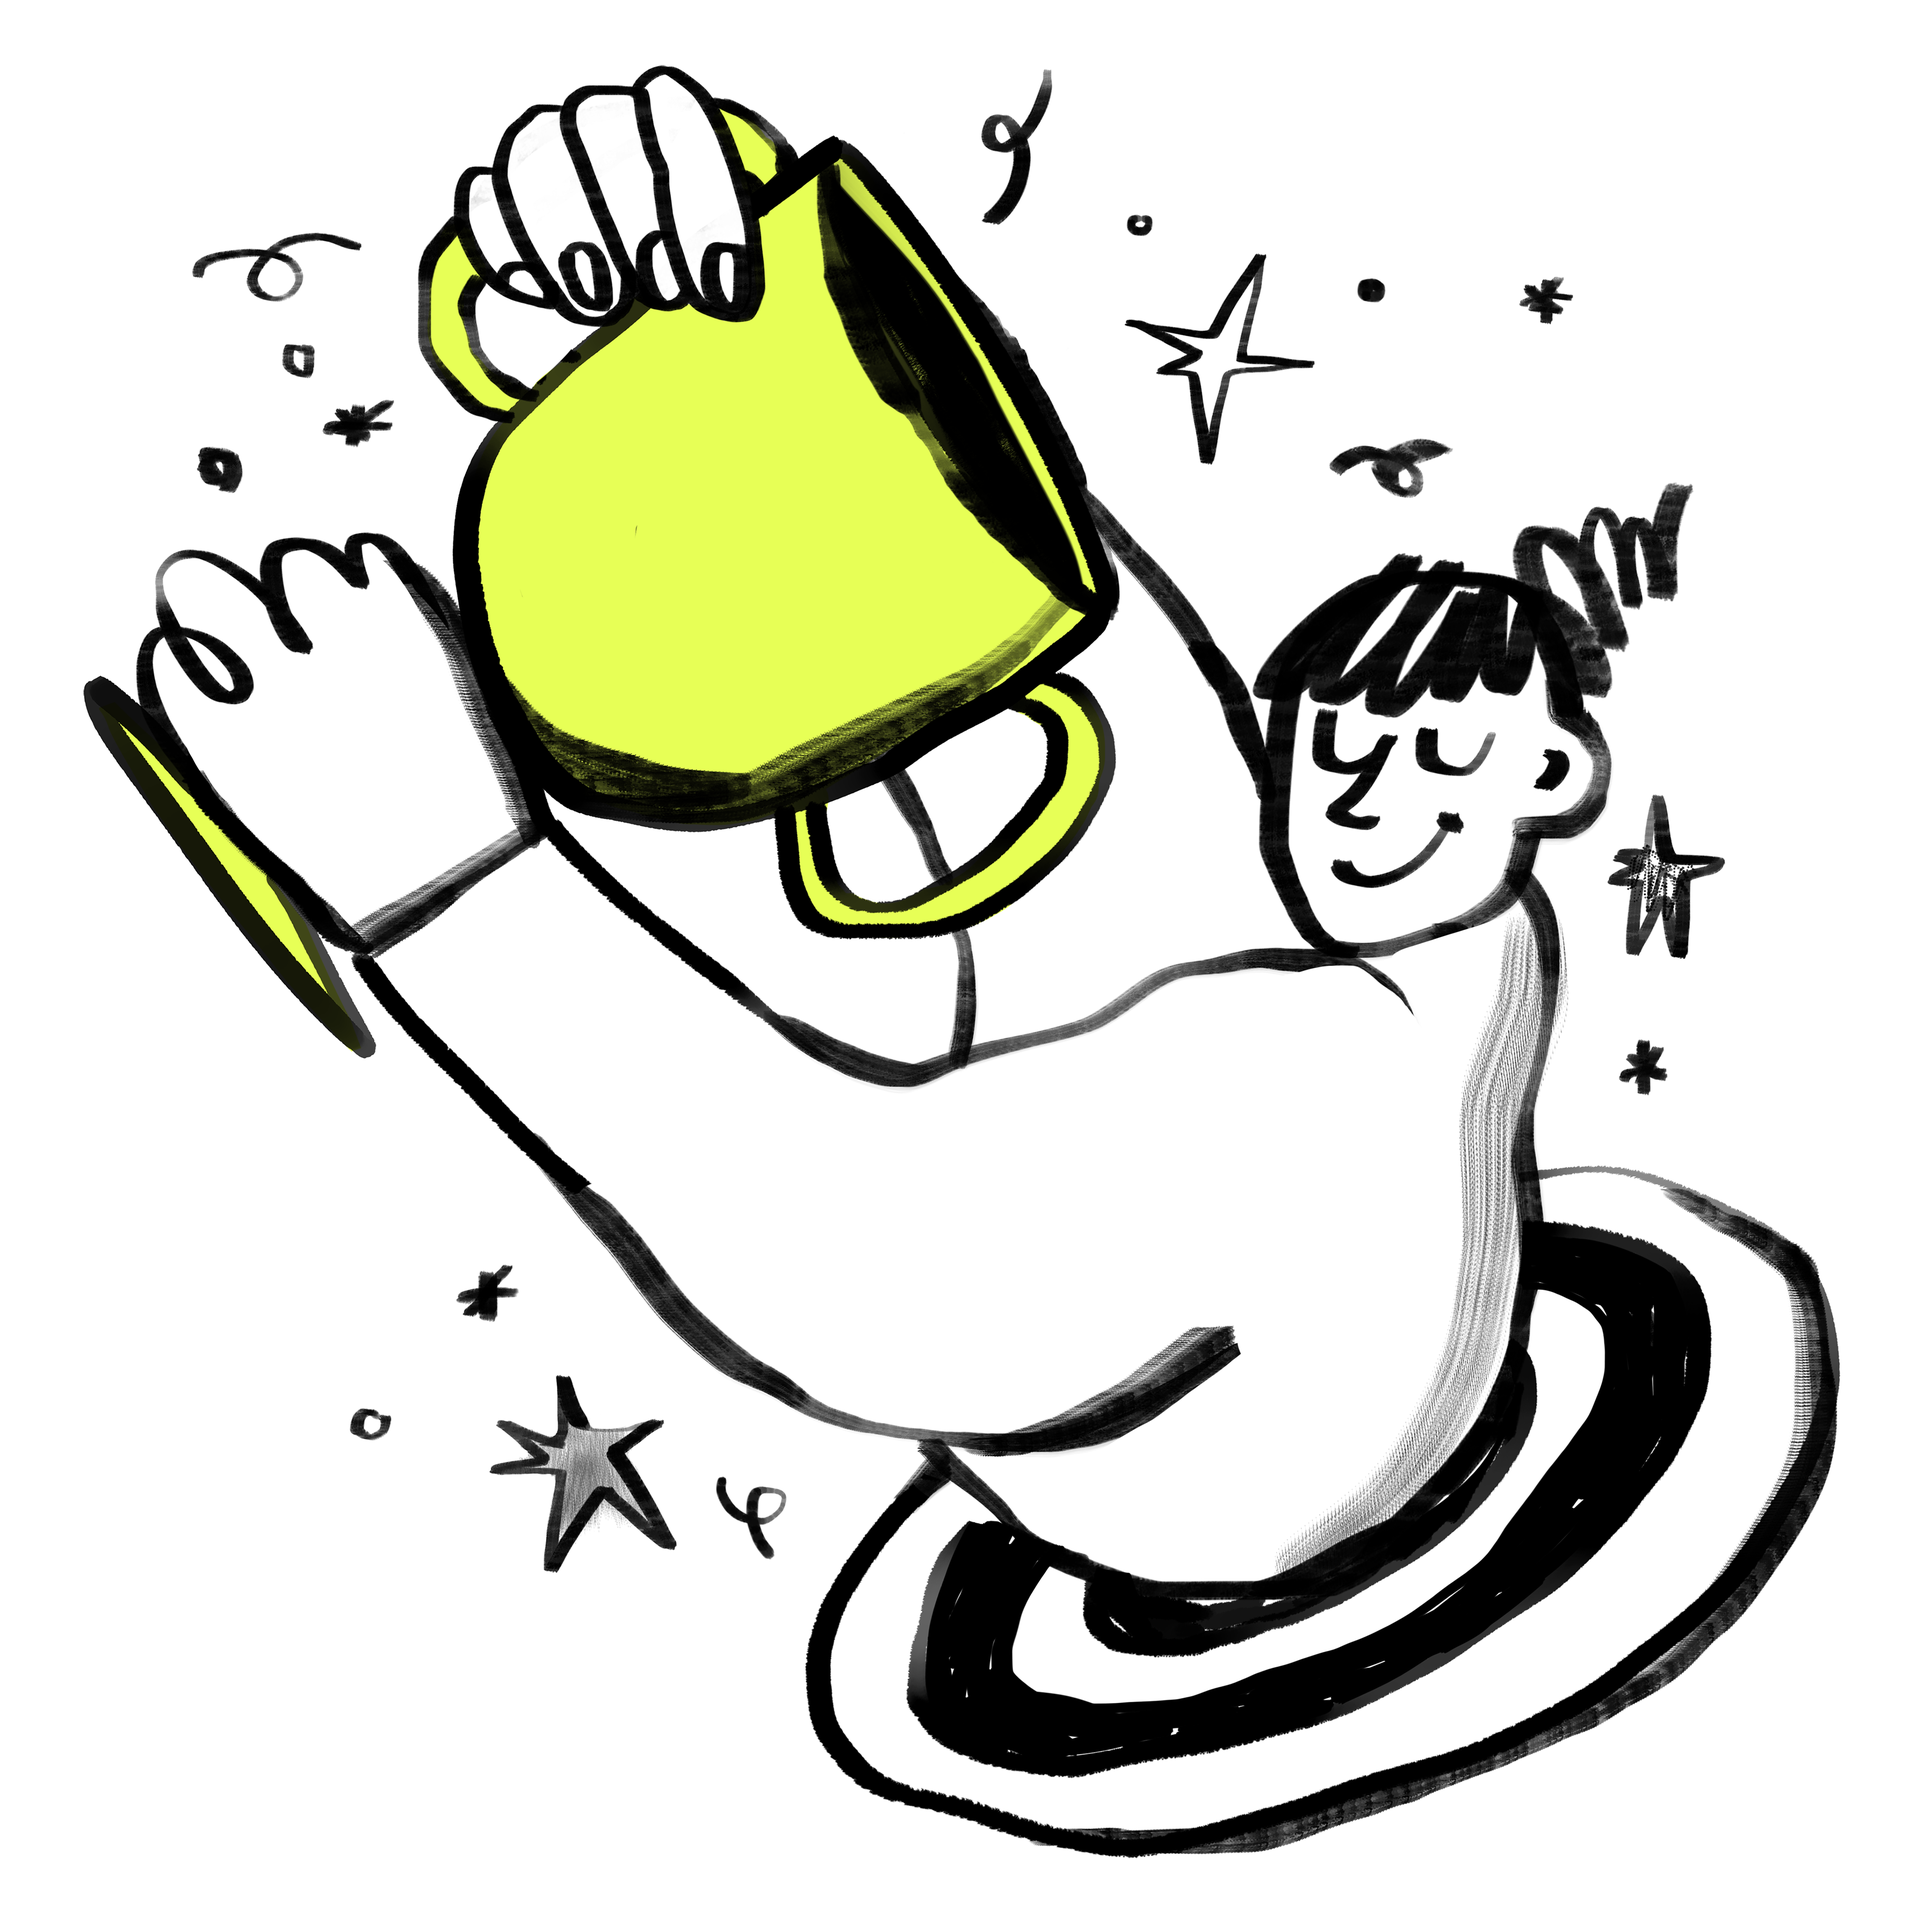
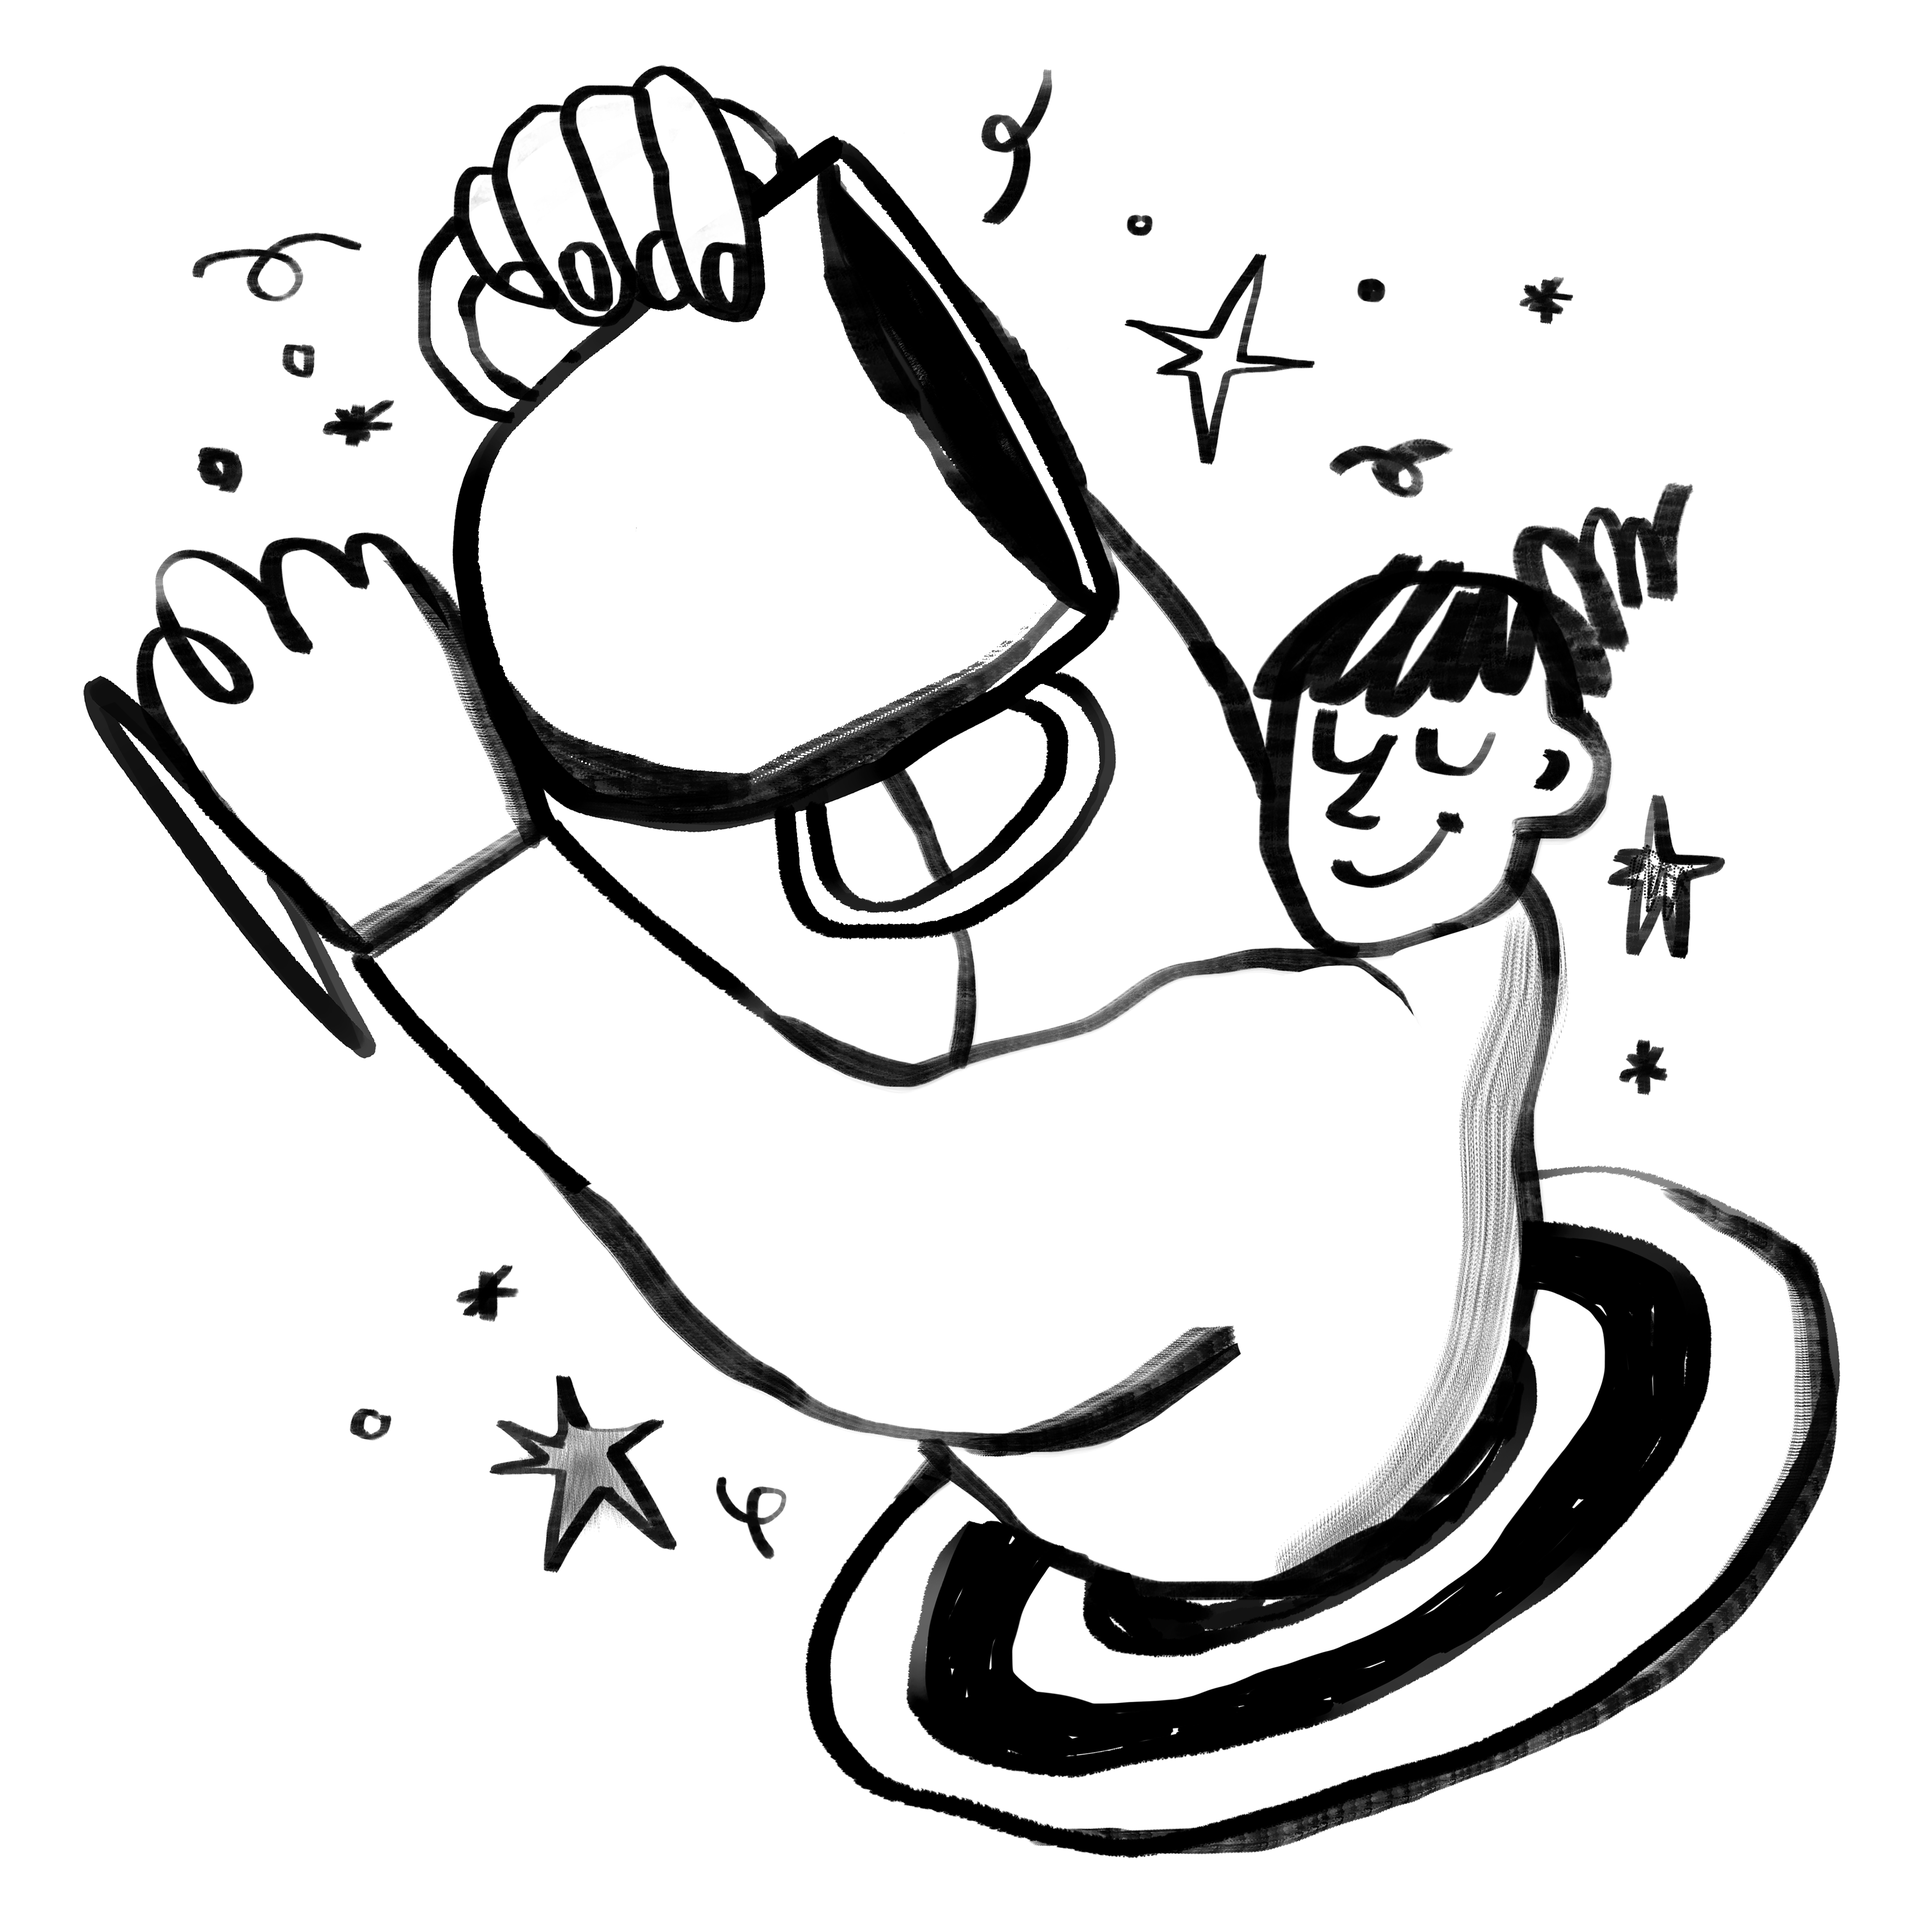
fix: replace trophy illustration with transparent version, remove CSS filter
New trophy-winner.png is fully transparent (no lime green fill).
Removed hue-rotate filter from HeroG. All 7 files referencing this
image automatically use the new version.

diff --git a/src/components/react/hero-explorations/HeroG_IllustrationStack.tsx b/src/components/react/hero-explorations/HeroG_IllustrationStack.tsx
@@ -106,8 +106,7 @@ export default function HeroG_IllustrationStack() {
             <div className="hg-frame-3 absolute bottom-0 right-[5%] will-change-transform"
               style={{ transform: 'rotate(1deg)', filter: 'drop-shadow(0 8px 24px rgba(0,0,0,0.08))' }}>
               <img src="/images/brand/trophy-winner.png" alt="" aria-hidden="true"
-                className="w-44 h-44 object-contain"
-                style={{ filter: 'hue-rotate(-55deg) saturate(0.85)' }} />
+                className="w-44 h-44 object-contain" />
             </div>
           </div>
         </div>
